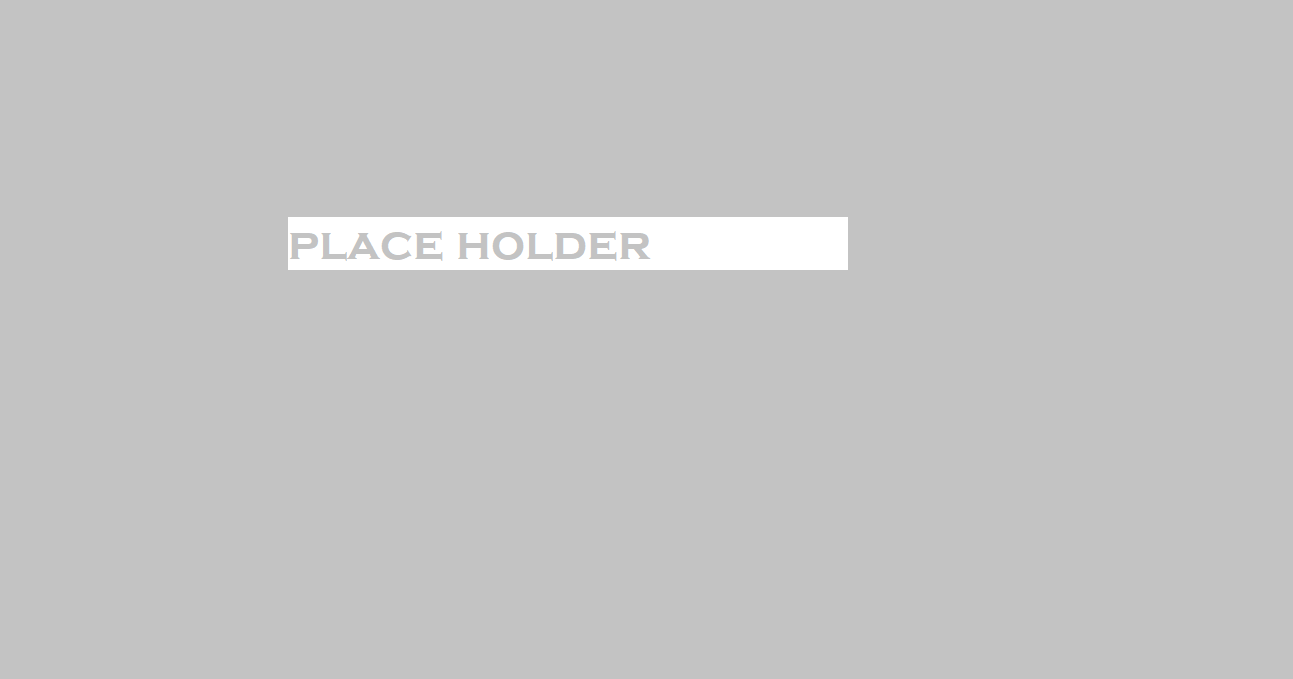
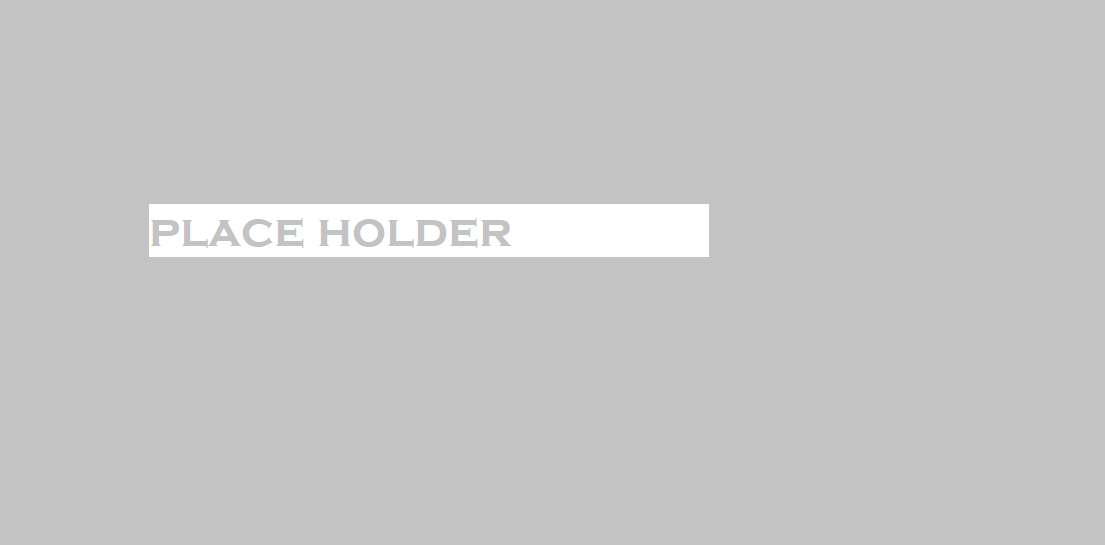
added password img, adjusted placholder size,

Changed region(s): [[0.1231, 0.3119, 0.6769, 0.4991]]

diff --git a/assets/style.css b/assets/style.css
@@ -156,7 +156,7 @@ h4::first-letter {
 .small {
   display: flex;
   justify-content: center;
-  flex-basis: 43.2%;
+  flex-basis: 43.3%;
   position: relative;
   border: solid var(--primary-color) 3px;
   margin: 10px 10px;
